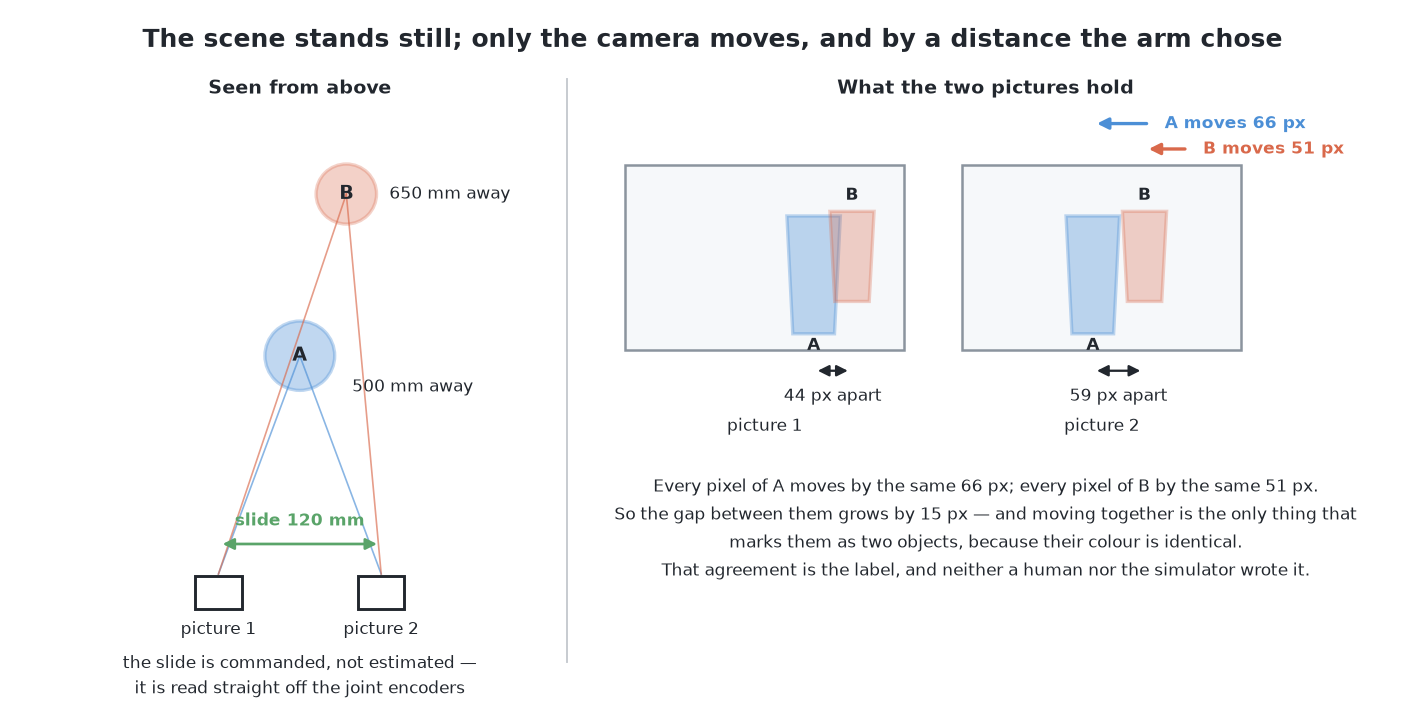
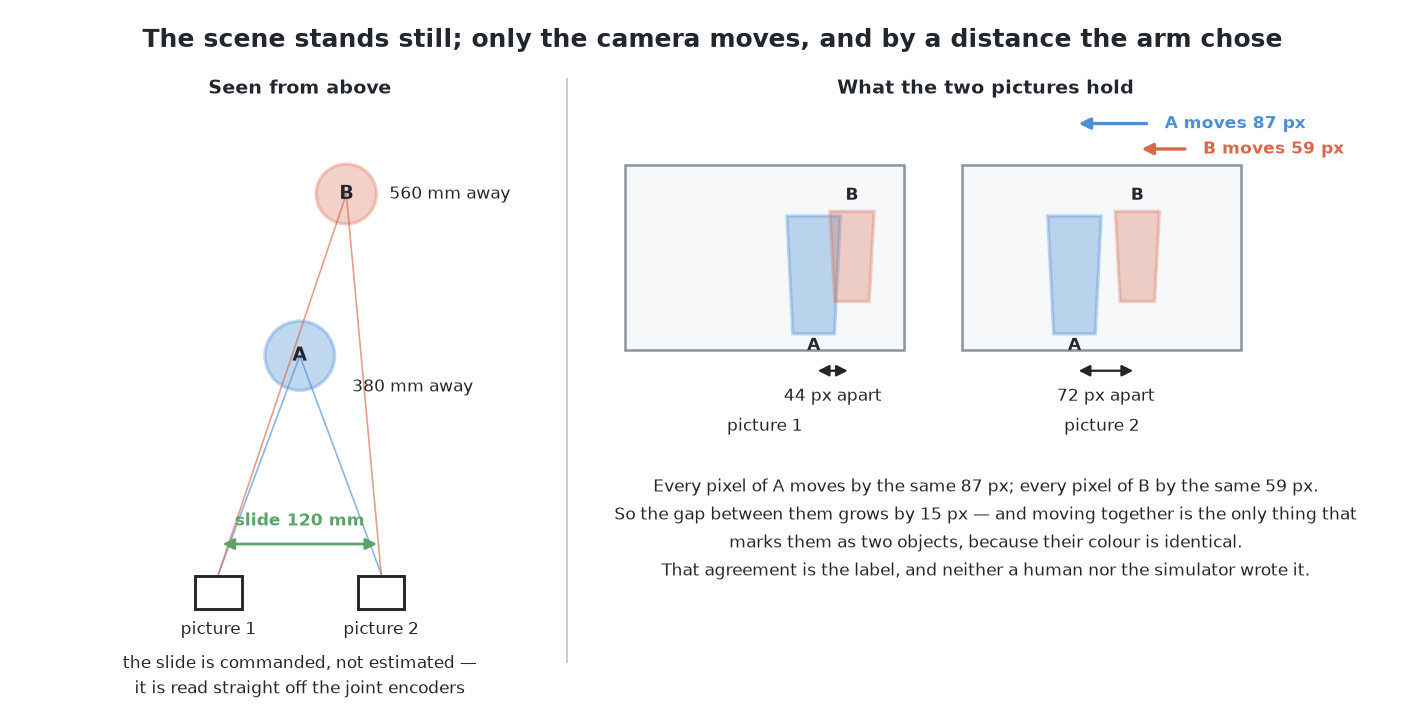
Rewrite solution 9 in plainer English, and make its diagram match its example
Embedding, contrastive loss, photometric loss, common fate and "populations of
shifts" are now explained or replaced by what they mean. The compressed
strengths-and-limits bullets, which were the densest passage in the set, are
full sentences.

One inconsistency fixed. The parallax figure was drawn for a pair at 500 and
650 mm, shifting 66 and 51 pixels, while the worked example uses 380 and
560 mm, shifting 87 and 59. Both are legal side-on distances, but a reader
comparing the two saw four numbers that did not match. make_09_images.py now
draws the worked example's pair, and the embedding-space caption follows.

The 500/520 mm pair stays as it was: it is the deliberately hard case the
feedback loop prices at 0.0213 pixels per millimetre, and the text says so.

All 6 images, every link and every other number kept; 3 Mermaid diagrams
render. Solution 9's summary in solution-overview.md re-synced.

diff --git a/v5-pick-glasses/images/generators/problem-2/make_09_images.py b/v5-pick-glasses/images/generators/problem-2/make_09_images.py
@@ -187,8 +187,8 @@ def two_views_parallax() -> None:
     axis.add_patch(Circle(far_xy, 0.26, facecolor=WARN, edgecolor=WARN, alpha=0.30, linewidth=1.6))
     axis.text(2.45, 3.05, "A", ha="center", va="center", fontsize=LABEL_SIZE, color=INK, weight="bold")
     axis.text(2.85, 4.45, "B", ha="center", va="center", fontsize=LABEL_SIZE, color=INK, weight="bold")
-    axis.text(2.90, 2.78, "500 mm away", ha="left", va="center", fontsize=NOTE_SIZE, color=INK)
-    axis.text(3.22, 4.45, "650 mm away", ha="left", va="center", fontsize=NOTE_SIZE, color=INK)
+    axis.text(2.90, 2.78, "380 mm away", ha="left", va="center", fontsize=NOTE_SIZE, color=INK)
+    axis.text(3.22, 4.45, "560 mm away", ha="left", va="center", fontsize=NOTE_SIZE, color=INK)
 
     for x, name in ((1.75, "picture 1"), (3.15, "picture 2")):
         axis.add_patch(
@@ -243,8 +243,8 @@ def two_views_parallax() -> None:
         axis.text(left + frame_width / 2, 2.44, title, ha="center", va="center", fontsize=NOTE_SIZE,
                   color=INK)
 
-        moved_a = 0.0 if index == 0 else -shift_px(500.0) * per_pixel
-        moved_b = 0.0 if index == 0 else -shift_px(650.0) * per_pixel
+        moved_a = 0.0 if index == 0 else -shift_px(380.0) * per_pixel
+        moved_b = 0.0 if index == 0 else -shift_px(560.0) * per_pixel
         x_a, x_b = left + a_at + moved_a, left + b_at + moved_b
         tumbler(axis, x_a, 3.24, 1.02, 0.46, colour=GLASS)
         tumbler(axis, x_b, 3.52, 0.78, 0.38, colour=WARN, alpha=0.30)
@@ -257,19 +257,19 @@ def two_views_parallax() -> None:
                   fontsize=NOTE_SIZE, color=INK)
 
     second = 8.15
-    arrow(axis, (second + a_at, 5.06), (second + a_at - shift_px(500.0) * per_pixel, 5.06),
+    arrow(axis, (second + a_at, 5.06), (second + a_at - shift_px(380.0) * per_pixel, 5.06),
           colour=GLASS, width=1.6)
-    axis.text(second + a_at + 0.12, 5.06, "A moves 66 px", ha="left", va="center", fontsize=NOTE_SIZE,
+    axis.text(second + a_at + 0.12, 5.06, "A moves 87 px", ha="left", va="center", fontsize=NOTE_SIZE,
               color=GLASS, weight="bold")
-    arrow(axis, (second + b_at, 4.84), (second + b_at - shift_px(650.0) * per_pixel, 4.84),
+    arrow(axis, (second + b_at, 4.84), (second + b_at - shift_px(560.0) * per_pixel, 4.84),
           colour=WARN, width=1.6)
-    axis.text(second + b_at + 0.12, 4.84, "B moves 51 px", ha="left", va="center", fontsize=NOTE_SIZE,
+    axis.text(second + b_at + 0.12, 4.84, "B moves 59 px", ha="left", va="center", fontsize=NOTE_SIZE,
               color=WARN, weight="bold")
 
     axis.text(
         8.35,
         1.55,
-        "Every pixel of A moves by the same 66 px; every pixel of B by the same 51 px.\n"
+        "Every pixel of A moves by the same 87 px; every pixel of B by the same 59 px.\n"
         "So the gap between them grows by 15 px — and moving together is the only thing that\n"
         "marks them as two objects, because their colour is identical.\n"
         "That agreement is the label, and neither a human nor the simulator wrote it.",
@@ -334,7 +334,7 @@ def embedding_space() -> None:
     axis.text(
         2.20,
         0.98,
-        "pixels 1 and 2 shift by 66 px;\npixels 3 and 4 shift by 51 px",
+        "pixels 1 and 2 shift by 87 px;\npixels 3 and 4 shift by 59 px",
         ha="center",
         va="center",
         fontsize=NOTE_SIZE,

diff --git a/v5-pick-glasses/docs/problem-2/solutions/09-self-supervised-from-the-arms-own-movement.md b/v5-pick-glasses/docs/problem-2/solutions/09-self-supervised-from-the-arms-own-movement.md
@@ -24,28 +24,31 @@ Four to six glasses stand on the table. They are all one kind, and the kind is
 known. The arm has to say which pixels belong to which glass, give each glass a
 position on the table, and name honestly any pair it could not separate.
 
-The difficulty is not seeing the glasses. It is telling one from another. Two
-glasses standing 150 mm apart on the table land on top of each other in a
-photograph whenever the camera is in line with both, and then the usual method
-— take every pixel standing above the table top, and group the ones that touch
-— returns a single blob. One blob means one glass to everything downstream, and
+The difficulty is not seeing the glasses. It is telling one from another.
+
+Two glasses standing 150 mm apart on the table land on top of each other in a
+photograph whenever the camera is in line with both. The usual method — take
+every pixel standing above the table top, and group the ones that touch — then
+returns a single blob. One blob means one glass to everything downstream, and
 that mistake does not announce itself.
 
-A learned method could draw the boundary the touching-pixels rule cannot. But
-it has to be trained, and training needs the right answer written beside each
+A learned method could draw the boundary the touching-pixels rule cannot. But it
+has to be trained, and training needs the right answer written beside each
 example. Those right answers are the **labels**, and getting them is where most
 of the cost of a learned method lives.
 
 ![Three ways to get the right answer written beside each picture](../../../images/problem-2/09-where-the-labels-come-from.png)
 
 The first column is the usual recipe: a person draws round every object,
-thousands of times. The second is what the other two learned solutions in this
-set do — Gazebo already knows which mesh each rendered pixel came from, so the
-labels are free. The third is this solution, and its supervision does not come
-from inside the simulator at all. It comes from the joint encoders, which a
-real arm also has. Everything else learned here would have to be retrained from
-scratch, with new labels, the day the code met a real camera. This one would
-not.
+thousands of times.
+
+The second is what the other two learned solutions here do. Gazebo already knows
+which object each rendered pixel came from, so the labels are free.
+
+The third is this solution. Its supervision does not come from inside the
+simulator at all. It comes from the joint encoders, which a real arm also has.
+Everything else learned here would have to be retrained from scratch, with new
+labels, the day the code met a real camera. This one would not.
 
 ## How it works, end to end
 
@@ -79,15 +82,20 @@ far apart in depth they are. It can only split two glasses if the gap between
 them is much bigger than the range of depths each glass covers by itself.
 
 Looking straight down from the survey height of 450 mm fails that test
-outright. Two glasses **of one kind** have their rims at nearly the same
-height, so nearly the same distance from an overhead camera. Worse, each glass
-on its own runs from its rim — 250 mm below the camera, for a 200 mm glass —
-down to the table at 450 mm, so both glasses fill the same range of depths and
-the same range of shifts: 133 pixels at the rim falling to 74 at the table, for
-each of them. Two populations lying on top of each other cannot be told apart
-at any baseline. The overhead view does not produce the merge anyway: across
-4320 legal arrangements with both glasses wholly inside one 320 by 240 frame,
-none merged.
+outright, for two reasons.
+
+First, two glasses **of one kind** have their rims at nearly the same height, so
+at nearly the same distance from an overhead camera.
+
+Second, and worse, each glass on its own runs from its rim — 250 mm below the
+camera, for a 200 mm glass — down to the table at 450 mm. So both glasses cover
+the same range of depths, and therefore the same range of shifts: 133 pixels at
+the rim falling to 74 at the table, for each of them. Two groups lying on top of
+each other cannot be told apart at any baseline.
+
+And the overhead view does not produce the merge anyway. Across 4320 legal
+arrangements, with both glasses wholly inside one 320 by 240 frame, none
+merged.
 
 Turn the camera on its side and the geometry turns with it. The station is the
 same one problem 1 measures a glass from: **level, 120 mm above the table
@@ -100,11 +108,11 @@ gap between the two glasses is 180 mm while each glass covers only its own
 
 ![The scene stands still; only the camera moves](../../../images/problem-2/09-two-views-parallax.png)
 
-The two frames on the right are the effect. Glass A, the nearer one, moves 66
-pixels. Glass B, 150 mm further away, moves 51. The gap between them grows by
-15 pixels, and that growth is the only thing in the two pictures that says they
-are two objects: same kind, same colour, same shape, so appearance says
-nothing.
+The two frames on the right are the effect. Glass A, the nearer one at 380 mm,
+moves 87 pixels. Glass B, 180 mm further away, moves 59. The gap between them
+grows by 28 pixels, and that growth is the only thing in the two pictures that
+says they are two objects. Same kind, same colour, same shape — so appearance
+says nothing at all.
 
 At each station the arm slides the camera sideways by 120 mm — the survey's own
 baseline, `SURVEY_BASELINE` — and photographs as it goes. A picture costs
@@ -143,11 +151,13 @@ the shift is 33,252 divided by the depth in millimetres.
 ![Apparent shift against depth, and separation against slide](../../../images/problem-2/09-depth-against-shift.png)
 
 The left-hand plot is that formula drawn. The curve is steep close up and flat
-far away, so the same 20 mm of depth difference is worth far more separation
-near the camera than far from it; the marked pair at 500 and 520 mm is the hard
-case, only 2.6 pixels apart. The right-hand plot is what makes this a method
-rather than an observation: separation is **linear in the slide**. Double the
-slide, double the separation. That turns the arm into a dial.
+far away. So the same 20 mm of depth difference is worth far more separation
+near the camera than far from it. The marked pair at 500 and 520 mm is the hard
+case, only 2.6 pixels apart.
+
+The right-hand plot is what makes this a method rather than an observation. The
+separation grows **in step with the slide**: double the slide, double the
+separation. That turns the arm into a dial.
 
 The chain from pixels to answer, in order:
 
@@ -155,20 +165,21 @@ The chain from pixels to answer, in order:
 2. **Warp** picture 1 into the viewpoint of picture 2, using that depth and the
    camera motion the encoders give. Every pixel is moved to where the predicted
    depth says it should now be.
-3. **Photometric loss** — compare the warped picture with picture 2, pixel by
+3. **Photometric loss.** Compare the warped picture with picture 2, pixel by
    pixel, on brightness. Where the warp lands on matching brightness the depth
-   was right; where it does not, the mismatch is what training pushes down.
-   This is the whole of the supervision: two pictures and two encoder readings.
-4. **Make pairs.** Once depth is roughly right the apparent shift of each pixel
+   was right. Where it does not, the mismatch is what training pushes down. This
+   is the whole of the supervision: two pictures and two encoder readings.
+4. **Make pairs.** Once the depth is roughly right, the shift of each pixel
    follows from the formula. Two pixels whose shifts agree to within the
-   measurement noise are a **positive pair** — same surface. Two whose shifts
-   differ by clearly more than the noise are a **negative pair**.
-5. **Contrastive loss** over an embedding. The network's second output is, for
-   every pixel, a list of perhaps 16 numbers, arranged so that *distance
-   between the lists means similarity*. Pick a pixel, take its positive
-   partner and a handful of negatives, and the loss is low only when the
-   partner is nearer than every negative. It **pulls** the anchor and its
-   partner together and **pushes** the anchor and its negatives apart.
+   measurement noise are a **positive pair** — the same surface. Two whose
+   shifts differ by clearly more than the noise are a **negative pair**.
+5. **Contrastive loss.** The network's second output is, for every pixel, a
+   list of perhaps 16 numbers. That list is called an **embedding**, and it is
+   arranged so that *two lists being close together means the two pixels belong
+   together*. Pick a pixel, take its positive partner and a handful of
+   negatives, and the loss is low only when the partner is closer than every
+   negative. So it **pulls** a pixel and its partner together, and **pushes** it
+   and its negatives apart.
 
 ![An embedding: every pixel becomes a point](../../../images/problem-2/09-embedding-space.png)
 
@@ -366,10 +377,10 @@ reported as unseparated, which is a result the problem explicitly asks for.
 
 ## The feedback loop
 
-Most learned components answer whatever they are asked and give no useful sign
+Most learned components answer whatever they are asked, and give no useful sign
 when they should not have. This one does, because the doubt has a number
-attached: **the separation, in pixels, between two candidate populations of
-shifts.** If that number is 23, the answer is settled. If it is 2.6, it is not.
+attached: **the gap, in pixels, between the two groups of shifts.** If that
+number is 23, the answer is settled. If it is 2.6, it is not.
 
 And because separation is linear in the slide, the arm can work out exactly how
 far it must move to make a named doubtful pair unambiguous.
@@ -411,31 +422,35 @@ Three limits on the loop, all arithmetic rather than opinion:
 
 ## Where it comes from
 
-**Self-supervised depth and ego-motion learning** is the nearest living
-relative. SfMLearner ([Zhou et al., CVPR 2017](https://github.com/tinghuiz/SfMLearner),
-MIT licence) trains two networks together from unlabelled video — one guesses
-depth, the other guesses how the camera moved — by warping one frame into the
-next and checking the brightness. Monodepth2
-([Godard et al., ICCV 2019](https://github.com/nianticlabs/monodepth2)) refines
-the recipe, under **Niantic's own non-commercial licence**: usable for reading
-and research, not for a product. Both have to *estimate* the camera motion, and
-that estimate is where a large part of their error lives. **Here the motion is
-not estimated. It is commanded.** Half of the hard problem in that literature
-does not exist in this cell.
+**Learning depth and camera motion together, with no labels**, is the nearest
+living relative. SfMLearner
+([Zhou et al., CVPR 2017](https://github.com/tinghuiz/SfMLearner), MIT licence)
+trains two networks at once from ordinary video. One guesses depth, the other
+guesses how the camera moved. It checks both by warping one frame into the next
+and comparing the brightness. Monodepth2
+([Godard et al., ICCV 2019](https://github.com/nianticlabs/monodepth2)) improves
+the recipe, under **Niantic's own non-commercial licence** — usable for reading
+and research, not for a product.
 
-**Motion segmentation** is the classical form of the grouping idea, and layered
+Both of those have to *estimate* the camera motion, and that estimate is where a
+large part of their error lives. **Here the motion is not estimated. It is
+commanded.** So half of the hard problem in that literature does not exist in
+this cell.
+
+**Motion segmentation** is the classical form of the grouping idea. Layered
 models go back at least to Wang and Adelson's *Representing Moving Images with
-Layers* (1994 — confident of the paper's existence and its subject, less so of
-its details). It assumes the *objects* move. Here they do not; the camera does,
-and relative motion is relative motion. The Gestalt psychologists called
-grouping by shared motion **common fate**: a flock of birds is one flock because
-the birds turn together.
+Layers* (1994 — I am confident of the paper and its subject, less so of its
+details). It assumes the *objects* move. Here they do not; the camera does. But
+relative motion is relative motion, so the same reasoning applies.
 
-**Contrastive learning** is how the grouping becomes something a network can
+The Gestalt psychologists called grouping by shared motion **common fate**: a
+flock of birds is one flock because the birds turn together.
+
+**Contrastive learning** is how that grouping becomes something a network can
 output. SimCLR ([Chen et al., 2020](https://arxiv.org/abs/2002.05709)) and MoCo
 ([He et al., 2019](https://arxiv.org/abs/1911.05722)) are the standard
-references. Both train on whole images rather than pixels, but the loss has the
-same shape, and it is a dozen lines of code rather than a library.
+references. Both train on whole pictures rather than on pixels, but the loss has
+the same shape, and it is a dozen lines of code rather than a library.
 
 ## What it needs
 
@@ -462,33 +477,40 @@ it. That distinction is the whole point of this solution.
 
 **Strong**
 
-- Learns a boundary nobody can write down: an occlusion edge, not a brightness
-  edge.
-- Labels are free and endless: every pair of pictures the arm took is one.
-- Colour is irrelevant, and it transfers to hardware unchanged: a real UR5e has
-  encoders and a wrist camera. No other learned solution here does.
-- Doubt carries a number, and separation is linear in the slide, so the arm
-  prices a decisive picture in millimetres.
+- **It learns a boundary nobody can write down.** The line it draws is where the
+  depth jumps, not where the brightness changes.
+- **Labels are free and endless.** Every pair of pictures the arm took is one.
+- **Colour does not matter**, so two identical glasses are no harder than two
+  different ones.
+- **It transfers to real hardware unchanged.** A real UR5e has joint encoders
+  and a wrist camera, which is all this needs. No other learned solution here
+  can say that.
+- **The doubt carries a number**, and the separation grows in step with the
+  slide, so the arm can work out in millimetres how far it must move to settle a
+  question.
 
 **Breaks**
 
-- Only the camera moves, so the only signal is parallax: a
-  depth-discontinuity detector in an embedding's clothes.
-- Two glasses at equal range separate by nothing; 20 mm apart, by 2.6 pixels.
-  Identical kind, so no appearance cue.
-- Affinity, not a count: something must still choose how many groups, and too
-  few is the merge.
-- The photometric loss needs brightness variation, weakest where the glasses
-  are plainest.
-- Change the lighting or the kind and the embedding describes a cell that no
-  longer exists.
-- A merged pair returns one tidy region with no complaint, so the circle-fit
-  check is not optional.
-- **The cell already has a depth camera**, measuring what parallax is trained
-  to infer, so not here. It earns its place on problem 4's open catalogue, or
-  the day depth fails on real glassware.
-- Competes with the other two learned deciders; leans on *cluster on the
-  table*; loops like *move the camera*.
+- **Only the camera moves, so parallax is the only signal.** Underneath, this is
+  a detector for sudden changes in depth, dressed up as a learned model.
+- **Two glasses at the same distance separate by nothing.** Twenty millimetres
+  apart they separate by 2.6 pixels. They are the same kind, so there is no clue
+  in how they look either.
+- **It says which pixels go together, not how many glasses there are.**
+  Something still has to choose the number of groups, and choosing too few is
+  the merge this problem fears.
+- **The photometric loss needs variation in brightness**, and it is weakest
+  exactly where the glasses are plainest.
+- **Change the lighting or the kind** and the learned embedding describes a cell
+  that no longer exists.
+- **A merged pair comes back as one tidy region with no complaint**, so the
+  circle-fit check afterwards is not optional.
+- **The cell already has a depth camera**, which measures directly what parallax
+  is being trained to infer. So this does not earn its place here. It earns it
+  on problem 4, where the kinds are open, or on the day depth fails on real
+  glassware.
+- It competes with the other two learned deciders, leans on *cluster on the
+  table*, and loops the way *move the camera* does.
 
 ## The general methods behind this
 
